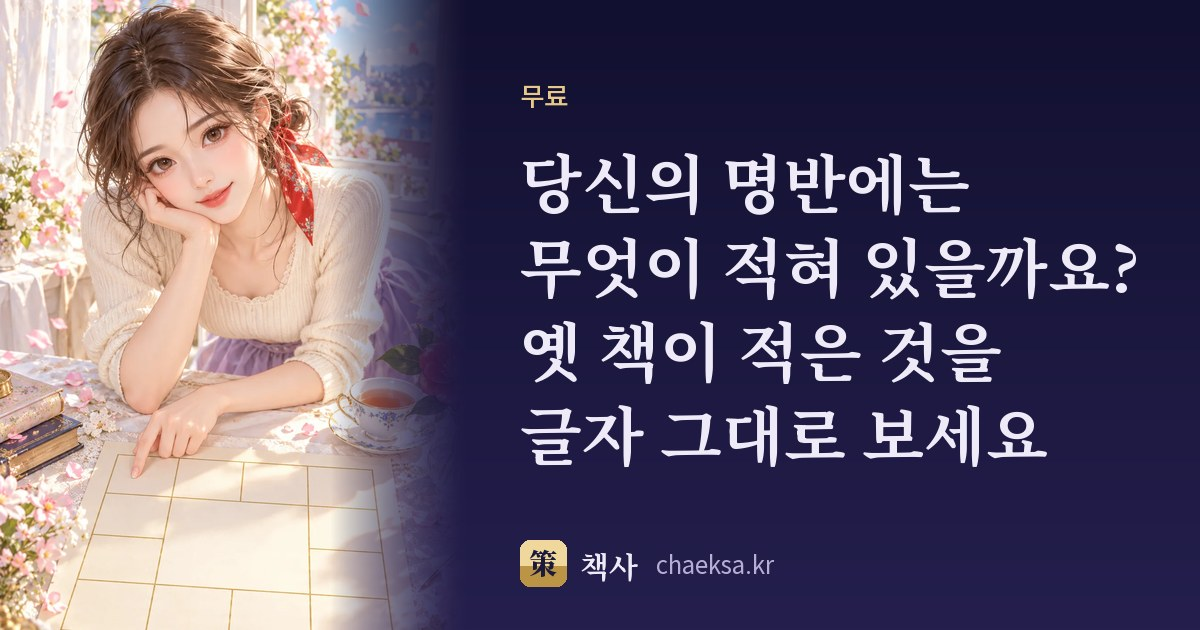
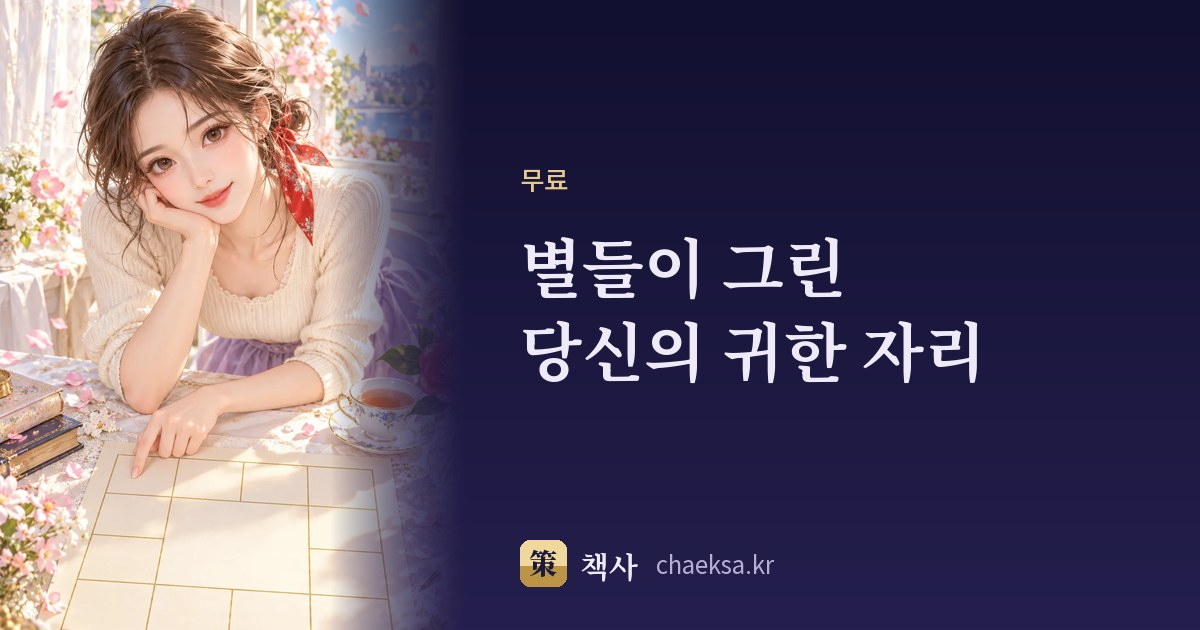
Add personalized Zi Wei favorable filter story
정한 것: 해당하는 전서 조건을 세로로 쌓고 누적 비율과 원문 근거를 보인다. 기존 명반과 전체 구절은 아래에서 펼친다.

diff --git a/app/myeongban-filter.js b/app/myeongban-filter.js
@@ -1,0 +1,39 @@
+/* Favorable 全書 clauses and their real cumulative cohort intersections. Renderer only. */
+(function () {
+  'use strict';
+  var esc = function (s) { return String(s == null ? '' : s).replace(/[&<>"']/g, function (x) { return { '&': '&amp;', '<': '&lt;', '>': '&gt;', '"': '&quot;', "'": '&#39;' }[x]; }); };
+  function rate(n) { if (n == null) return '비율 미산정'; if (n < 0.01) return '0.01% 미만'; return n.toFixed(2).replace(/\.00$/, '') + '%'; }
+  function source(s) {
+    var volume = /卷([一二三])/.exec(s.source || '');
+    var url = 'https://zh.wikisource.org/zh-hant/' + encodeURIComponent('紫微斗數全書') + '/' + encodeURIComponent('卷' + (volume ? volume[1] : '二'));
+    return '<div class="zf-source"><p class="zf-quote" lang="zh-Hant">' + esc(s.quote) + '</p><p>' + esc(s.meaning) + '</p><p class="zf-evidence"><b>내 명반에서 확인한 조건</b><br>' + esc(s.evidence) + '</p><a href="' + url + '" target="_blank" rel="noopener noreferrer">자미두수전서 · ' + esc(s.source) + ' ↗</a></div>';
+  }
+  function html(story) {
+    if (!story || !Array.isArray(story.filters)) return '';
+    var filters = story.filters, stars = (story.mainStars || []).join(' · ');
+    var h = '<article class="zf" aria-label="자미두수 · 당신에게 모인 좋은 조건">';
+    h += '<div class="zf-hero"><p class="zf-kicker">자미두수전서에서 읽은 당신</p><h2>당신에게 모인<br><em>좋은 별의 조건.</em></h2>';
+    if (stars) h += '<p class="zf-stars">나를 보는 자리, 명궁의 별 <strong>' + esc(stars) + '</strong></p>';
+    else h += '<p class="zf-stars">명궁에는 주성이 없습니다. 다른 자리의 별을 함께 읽습니다.</p>';
+    h += '<p class="zf-intro">옛 책이 좋게 본 조건을<br>당신의 명반에서 하나씩 찾았습니다.</p>';
+    if (filters.length) h += '<div class="zf-total"><span>아래 조건이 모두 모인 명반</span><strong>' + rate(story.percent) + '</strong><small>비교 명반 기준</small></div>';
+    h += '</div>';
+    if (filters.length) {
+      h += '<section class="zf-filters" aria-labelledby="zf-filter-heading"><div class="zf-section-head"><p class="zf-kicker">하나씩 겹쳐 볼수록</p><h3 id="zf-filter-heading">이 조건들이<br>당신에게 함께 있습니다.</h3><p>숫자는 이 줄까지의 조건에 모두 해당하는 비율입니다.</p></div><ol class="zf-stack">';
+      filters.forEach(function (f, i) {
+        var width = f.percent == null ? 0 : Math.min(100, Math.max(0, f.percent));
+        h += '<li class="zf-step"><div class="zf-step-top"><span class="zf-number">' + String(i + 1).padStart(2, '0') + '</span><span class="zf-domain">' + esc(f.domain) + '</span><span class="zf-check" aria-label="해당">✓</span></div>';
+        h += '<h4>' + esc(f.title) + '</h4>' + (f.name ? '<p class="zf-name">' + esc(f.name) + '</p>' : '');
+        h += '<div class="zf-rate"><span>' + (i ? '여기까지 함께 해당' : '이 조건에 해당') + '</span><strong>' + rate(f.percent) + '</strong></div><div class="zf-track" aria-hidden="true"><i style="width:' + width.toFixed(5) + '%"></i></div>';
+        h += '<details><summary>왜 나에게 해당할까요?</summary>' + (f.sources || []).map(source).join('') + '</details></li>';
+      });
+      h += '</ol></section>';
+    }
+    h += '<section class="zf-conclusion"><p class="zf-kicker">당신에게 모인 자리들</p><h3>' + esc(story.conclusion) + '</h3><p>' + esc(story.summary) + '</p>';
+    if (filters.length) h += '<p class="zf-closing">당신의 명반을 이루는<br>좋은 조건들을 기억해 두세요.</p>';
+    h += '</section><details class="zf-method"><summary>비율은 어떻게 계산했나요?</summary><p>자미두수 명반을 같은 기준으로 계산한 비교 자료에서, 각 조건에 모두 해당하는 명반을 셌습니다. 앞선 조건을 통과한 명반 안에서 다음 조건을 다시 확인합니다. 각각의 비율을 곱하지 않습니다.</p><p>' + esc(story.scheme) + ' · 총 ' + Number(story.sampleSize).toLocaleString('ko-KR') + '개.</p><p>실제 인구 비율이나 능력 점수가 아닙니다. 조건이 겹치면 비율이 같을 수 있으며, 비교 자료에서 찾지 못한 조합은 비율 미산정으로 표시합니다.</p><p>이 조건을 모두 갖추어야만 귀한 사람이라는 뜻은 아닙니다.</p></details>';
+    h += '<p class="zf-scope">' + esc(story.scope) + '</p><div class="zf-chart-heading"><p class="zf-kicker">더 가까이 들여다보기</p><h3>당신의 열두 자리</h3><p>명반을 펼친 뒤 궁이나 별을 누르면 그 자리에 적힌 이야기가 열립니다.</p></div></article>';
+    return h;
+  }
+  window.ChaeksaZiweiFilter = { html: html };
+})();

diff --git a/app/myeongban-filter.css b/app/myeongban-filter.css
@@ -1,0 +1,14 @@
+.zf{--zf-paper:#faf7ef;--zf-ink:#252c2c;--zf-gold:#926321;--zf-line:#d9cbb3;background:var(--zf-paper);color:var(--zf-ink);margin:28px 0 0;font-family:var(--sans);container-type:inline-size}
+.zf *{box-sizing:border-box}.zf p{line-height:1.85}.zf-kicker{color:var(--zf-gold);font-size:11px;letter-spacing:.12em;margin:0 0 20px}.zf-hero{padding:34px 28px 38px;border-top:1px solid var(--zf-line)}
+.zf h2,.zf h3,.zf h4{font-family:var(--serif);font-weight:400;word-break:keep-all;overflow-wrap:anywhere;color:var(--zf-ink)}.zf h2{font-size:clamp(30px,7.6cqw,45px);line-height:1.55;margin:0 0 26px;letter-spacing:-.055em}.zf h2 em{font-style:normal;color:var(--zf-gold)}
+.zf-stars{font-size:12px;color:#797266;margin:0 0 24px}.zf-stars strong{display:block;color:var(--zf-ink);font-family:var(--serif);font-size:20px;font-weight:400;margin-top:3px}.zf-intro{font-family:var(--serif);font-size:16px;color:#665c4d;margin:0}
+.zf-total{margin:32px 0 0;padding-top:26px;border-top:1px solid var(--zf-line);display:flex;flex-direction:column;align-items:flex-start}.zf-total span{font-size:12px;color:#756954}.zf-total strong{font-family:var(--serif);font-size:52px;color:var(--zf-gold);line-height:1.4;font-weight:400;letter-spacing:-.06em}.zf-total small{font-size:10px;color:#827764}
+.zf-section-head{padding:25px 28px}.zf-section-head .zf-kicker{margin-bottom:12px}.zf h3{font-size:27px;line-height:1.6;letter-spacing:-.04em;margin:0 0 15px}.zf-section-head>p:last-child{font-size:11px;color:#827764;margin:0}
+.zf-stack{list-style:none;padding:0 16px 0 37px;margin:0;counter-reset:none;position:relative}.zf-stack:before{content:'';position:absolute;left:21px;top:23px;bottom:22px;width:1px;background:var(--zf-line)}
+.zf-step{position:relative;list-style:none;border:1px solid var(--zf-line);padding:24px;background:linear-gradient(125deg,#f0ebdf 0%,#fbf8f1 78%);margin:0 0 18px}.zf-step:before{content:'';position:absolute;left:-21px;top:29px;width:9px;height:9px;background:var(--zf-gold);border:2px solid var(--zf-paper);border-radius:50%}.zf-step-top{display:flex;align-items:center;gap:10px}.zf-number{font:14px var(--serif);color:var(--zf-gold)}.zf-domain{font-size:10px;letter-spacing:.06em;color:#84765e}.zf-check{margin-left:auto;font-size:15px;color:var(--zf-gold)}
+.zf h4{font-size:24px;line-height:1.7;letter-spacing:-.045em;margin:20px 0 14px}.zf-name{color:var(--zf-gold);font-family:var(--serif);font-size:13px;margin:-3px 0 20px}.zf-rate{display:flex;align-items:baseline;justify-content:space-between;gap:8px;margin-top:22px}.zf-rate span{font-size:10px;color:#88795e}.zf-rate strong{font:26px var(--serif);color:var(--zf-gold);white-space:nowrap}.zf-track{height:4px;background:#e6dfd2;margin:10px 0 22px}.zf-track i{display:block;height:100%;background:var(--zf-gold)}
+.zf details{font-size:12px;line-height:1.85}.zf details summary{cursor:pointer;padding:12px 0;color:#88744d;font-size:11px}.zf-step details{border-top:1px solid var(--zf-line)}.zf-source{padding:14px 0;border-bottom:1px solid var(--zf-line);word-break:keep-all;overflow-wrap:anywhere}.zf-source:last-child{border:0}.zf-source p{font-size:12px;margin:8px 0;color:#655d50}.zf-source .zf-quote{font-family:var(--serif);font-size:15px;color:var(--zf-ink)}.zf-source a{color:var(--zf-gold);font-size:10px}.zf-source .zf-evidence{background:#eee7db;padding:12px;font-size:11px}.zf-evidence b{font-weight:500;color:var(--zf-gold)}
+.zf-conclusion{margin:48px 28px 30px;padding:32px 0;border-top:1px solid var(--zf-line);border-bottom:1px solid var(--zf-line)}.zf-conclusion h3{font-size:32px}.zf-conclusion p:not(.zf-kicker){font-family:var(--serif);font-size:15px;color:#6d604c}.zf-conclusion .zf-closing{margin-top:24px}.zf-method{margin:0 28px;color:#807563}.zf-method p{font-size:11px}.zf-scope{font-size:10px;color:#968975;margin:24px 28px 0}.zf-chart-heading{padding:60px 28px 10px}.zf-chart-heading h3{margin:0}.zf-chart-heading>p:last-child{font-size:12px;color:#81735b}.zf-chart-heading .zf-kicker{margin-bottom:10px}
+@container(max-width:360px){.zf-hero,.zf-section-head{padding-left:18px;padding-right:18px}.zf-step{padding:18px}.zf-stack{padding-right:8px;padding-left:29px}.zf-stack:before{left:15px}.zf-step:before{left:-19px}.zf h4{font-size:22px}.zf-conclusion{margin-left:18px;margin-right:18px}.zf-conclusion h3{font-size:27px}.zf-total strong{font-size:46px}}
+@media(prefers-reduced-motion:reduce){.zf *{scroll-behavior:auto}}
+.mb-original{margin:0 28px 32px;border-top:1px solid #d9cbb3}.mb-original>summary{padding:18px 0;color:#926321;cursor:pointer;font-size:13px}.mb-original[open]{margin-left:0;margin-right:0}.mb-original .mb-top{margin-top:18px}

diff --git a/app/myeongban.html b/app/myeongban.html
@@ -3,12 +3,12 @@
 <head>
 <meta charset="utf-8">
 <meta name="viewport" content="width=device-width, initial-scale=1, viewport-fit=cover">
-<title>당신의 명반에는 무엇이 적혀 있을까요? 옛 책이 적은 것을 글자 그대로 보세요 · 책사</title>
-<meta name="description" content="태어난 해 · 달 · 날 · 시로 삶의 열두 분야를 담은 표(자미두수 명반)를 그려요. 칸이나 별을 눌러 옛 책의 원문과 쉬운 풀이를 보세요(《자미두수전서》). 그 칸의 일이 드러나는 해도 적어요. 옛 책이 좋다고 적은 것은 좋다고, 나쁘다고 적은 것은 나쁘다고 그대로 옮겨요.">
+<title>자미두수 · 별들이 그린 당신의 귀한 자리 · 책사</title>
+<meta name="description" content="자미두수전서가 좋게 본 조건을 내 명반에서 찾습니다. 좋은 조건을 하나씩 겹친 누적 비율과 원문 근거, 열두 궁의 이야기를 무료로 읽어 보세요.">
 <meta name="robots" content="index,follow,max-snippet:-1">
 <link rel="canonical" href="https://chaeksa.kr/myeongban.html">
-<meta property="og:title" content="당신의 명반에는 무엇이 적혀 있을까요? 옛 책이 적은 것을 글자 그대로 보세요">
-<meta property="og:description" content="태어난 해 · 달 · 날 · 시로 삶의 열두 분야를 담은 표(자미두수 명반)를 그려요. 칸이나 별을 눌러 옛 책의 원문과 쉬운 풀이를 보세요(《자미두수전서》). 그 칸의 일이 드러나는 해도 적어요. 옛 책이 좋다고 적은 것은 좋다고, 나쁘다고 적은 것은 나쁘다고 그대로 옮겨요. 무료.">
+<meta property="og:title" content="자미두수 · 별들이 그린 당신의 귀한 자리">
+<meta property="og:description" content="나에게 해당하는 좋은 조건을 하나씩 쌓아 읽는 자미두수. 원문과 내 명반의 근거까지 함께 봅니다. 무료.">
 <meta property="og:type" content="website">
 <meta property="og:site_name" content="책사">
 <meta property="og:url" content="https://chaeksa.kr/myeongban.html">
@@ -25,6 +25,7 @@
 <link rel="preconnect" href="https://fonts.gstatic.com" crossorigin>
 <link href="https://fonts.googleapis.com/css2?family=Noto+Serif+KR:wght@400;700;900&family=Noto+Sans+KR:wght@400;500;700&family=Gowun+Batang:wght@400;700&display=swap" rel="stylesheet">
 <link rel="stylesheet" href="style.css?v=49a9ab4e50">
+<link rel="stylesheet" href="myeongban-filter.css?v=90515b436d">
 <style>
 /* brain.html 과 같은 꼴 — 사이트 공통(style.css 변수 · 머리 줄 · 「← 홈」). 이 쪽만의 색을 새로 박지 않는다(hex 0) — 종이는 카드 변수, 먹은 글자 변수, 주홍은 강조 변수 */
 .wrap{max-width:560px;margin:0 auto;padding:var(--s3) 18px 80px}
@@ -141,8 +142,8 @@ body.sh-open{overflow:hidden}
 <div class="mini-head" role="banner"><a class="logo" href="./" title="처음 화면으로"><i class="seal">策</i><span>책사</span></a></div>
 <main class="wrap">
   <a class="btn ghost small backhome" href="./" style="display:inline-block;margin-top:0;text-decoration:none">← 홈</a>
-  <p class="eyebrow" id="eyebrow">옛 책이 당신의 자리에 적은 말</p>
-  <h1 id="h1">당신의 명반에는 무엇이 적혀 있을까요? 옛 책이 적은 것을 글자 그대로 보세요</h1>
+  <p class="eyebrow" id="eyebrow">자미두수 · 자미두수전서</p>
+  <h1 id="h1">별들이 그린 당신의 귀한 자리</h1>
   <p class="sub" id="sub"></p>
 
   <div id="who"></div>
@@ -176,6 +177,7 @@ body.sh-open{overflow:hidden}
 <script src="places.js?v=1350b96148"></script>
 <script src="share.js?v=d14e2a4e8e"></script>
 <script src="myeongban-copy.js?v=558e26b3da"></script>
-<script src="myeongban.js?v=798c77babc"></script>
+<script src="myeongban-filter.js?v=321bc39a25"></script>
+<script src="myeongban.js?v=a2fe2b6278"></script>
 </body>
 </html>

diff --git a/app/myeongban.js b/app/myeongban.js
@@ -53,11 +53,11 @@
   var 궁of = function (이름) { return 결과 ? 결과.명반.궁.filter(function (g) { return g.이름 === 이름; })[0] : null; };
 
   try { $('p').innerHTML = window.ChaeksaPlaces ? ChaeksaPlaces.options() : '<option value="KR:서울">서울</option>'; $('p').value = 'KR:서울'; } catch (e) {}
-  if (쪽.제목) $('h1').textContent = 쪽.제목;
-  if (쪽.눈썹) $('eyebrow').textContent = 쪽.눈썹;
-  $('sub').textContent = 글('첫줄', '');
+  $('h1').textContent = '별들이 그린 당신의 귀한 자리';
+  $('eyebrow').textContent = '자미두수 · 자미두수전서';
+  $('sub').textContent = '옛 책이 좋게 본 조건을 하나씩 겹쳐, 당신의 명반을 읽습니다.';
   $('hint').textContent = 글('입력.시필요', '');
-  $('go').textContent = 글('입력.단추', '명반 그리기');
+  $('go').textContent = '내 명반 읽기';
 
   // 엔진 경계 말 → 작가 경계종류 열쇠(엔진 말은 1층에 내지 않는다 — 작가 원고 경계메모). 모르는 말은 머리 줄만.
   function 경계종류(말) {
@@ -127,7 +127,8 @@
   }
   function 그리기() {
     var R = 결과; if (!R) return;
-    var M = R.명반, h = '';
+    var M = R.명반, h = window.ChaeksaZiweiFilter ? ChaeksaZiweiFilter.html(R.filterStory) : '';
+    if (R.filterStory) h += '<details class="mb-original"><summary>내 명반과 전체 구절 보기</summary>';
     h += '<div class="mb-top"><div class="sec">' + esc(글('명반.머리', '당신의 명반')) + '</div><p class="why">' + esc(M.해범위[0] + '~' + M.해범위[1]) + '</p></div>';
     var 종류 = []; (M.경계 || []).forEach(function (말) { var k = 경계종류(말); if (k && 종류.indexOf(k) < 0) 종류.push(k); });
     if ((M.경계 || []).length) h += '<div class="mb-edge"><p>' + esc(글('명반.경계', '')) + '</p>' + 종류.map(function (k) { return '<p>' + esc(글('명반.경계종류.' + k, '')) + '</p>'; }).join('') + '</div>';
@@ -138,7 +139,8 @@
       + '<div class="c3 tap' + (탭본() ? ' still' : '') + '">👆 ' + esc(글('명반.누르기', '')) + '</div></div>'
       + '</div>';
     h += 흐름html(M);   // 10-24 열두 칸 글 흐름(결론 → 근거 접힘)
-    h += '<div class="end"><p class="line">' + esc(글('끝.줄', '')) + '</p><p class="why">' + esc(글('끝.풀이', '')) + '</p></div>';
+    if (R.filterStory) h += '</details>';
+    if (!R.filterStory) h += '<div class="end"><p class="line">' + esc(글('끝.줄', '')) + '</p><p class="why">' + esc(글('끝.풀이', '')) + '</p></div>';
     h += '<div class="share-row"><button type="button" class="btn ghost small" data-share="1">' + esc(글('공유.단추', '이 화면 친구에게 보내기')) + '</button><p class="why" id="shareMsg">' + esc(글('공유.안내', '')) + '</p></div>';
     $('out').innerHTML = h;
   }
@@ -524,7 +526,7 @@
       결과 = j; 표 = j.표 || ''; 지금 = { 이름: 이름 || '', body: body }; $('err').textContent = '';
       그리기();
       // 손님이 눌러서 그린 것이면 명반으로 내려간다(처음 열릴 때 넣어 둔 사람으로 저절로 그린 것은 그대로 — 첫 줄부터 읽게)
-      if (스크롤) try { var 머리 = document.querySelector('.mb-top'); if (머리) 머리.scrollIntoView({ behavior: 'smooth', block: 'start' }); } catch (e4) {}
+      if (스크롤) try { var 머리 = document.querySelector('.zf') || document.querySelector('.mb-top'); if (머리) 머리.scrollIntoView({ behavior: 'smooth', block: 'start' }); } catch (e4) {}
       if (!셌다) { 셌다 = true; try { if (window.ChaeksaTrack && ChaeksaTrack.event) ChaeksaTrack.event('myeongban'); } catch (e2) {} }
     } catch (err) { $('err').textContent = '연결하지 못했어요. 다시 눌러 주세요.'; }
   }

diff --git a/app/tests_yaksok.html b/app/tests_yaksok.html
@@ -7,7 +7,7 @@
 <script src="yaksok.js?v=ac6b394f76"></script>
 <script src="love.js?v=737607f76b"></script>
 <script src="pair.js?v=14dab953c5"></script>
-<script src="home-cats.js?v=d8448b4f11"></script>
+<script src="home-cats.js?v=85aa4b77f8"></script>
 <script src="people.js?v=608bb7b89c"></script>
 <script>
 // 상품 약속 장부 시험(10-02 개편 2묶음 「상품 약속 장부 한 줄씩 만들고, 모든 화면이 거기서 읽게 하기」).
@@ -42,14 +42,14 @@
   const 아는조건 = ['장한줄'];
   // 손으로 쓴 곳 — 장부를 읽지 못하는 법 문서 · 정적 글과, 장부를 읽게 바꾼 화면 파일(남은 손글씨가 없는지)
   const 손글파일 = ['pay.html', 'terms.html', 'privacy.html', 'index.html', 'manifest.json', 'llms.txt', 'taekil.html', 'taekil-apply.html', 'taekil-sample.html', 'pay-done.html', 'pay-fail.html', 'love.html', 'pair.html', 'ssom.html', 'gunghap-chongnon.html', 'jeongtong.html',
-    'love.js?v=737607f76b', 'pair.js?v=14dab953c5', 'home-cats.js?v=d8448b4f11', 'app.js?v=79253bb630', 'pay.js?v=b830dbd7bb', 'gunghap-gwanjeom.js?v=8760d7107c', 'bunya.js?v=f082457166', 'about.html',
+    'love.js?v=737607f76b', 'pair.js?v=14dab953c5', 'home-cats.js?v=85aa4b77f8', 'app.js?v=79253bb630', 'pay.js?v=b830dbd7bb', 'gunghap-gwanjeom.js?v=8760d7107c', 'bunya.js?v=f082457166', 'about.html',
     // 10-02 「켜는 날」 — 바깥 신청 폼 · 「사람이 직접」 · 「작업 전 전액 환불」 같은 걷은 약속이 출산택일 쪽에 다시 들어오지 않게(tools_check.py 7) 은 월별 · 궁통보감 쪽까지 taekil-*.html 전부를 본다)
     'taekil-price.html', 'taekil-sim.html', 'taekil-report.html', 'taekil-admin.html', 'taekil-why-different.html', 'taekil-cesarean-date.html', 'taekil-how-to-choose.html',
     'taekil-verify.html', 'taekil-fate-vs-timing.html', 'taekil-doctor-schedule.html', 'taekil-solar-time.html', 'taekil-lunar-december.html',
     'taekilsim.js?v=fbda3c54dc', 'taekil-admin.js?v=edcde7cc1e', 'taekil-report.js?v=97ae8d83e9'];
   // about.html(10-02 개편 3묶음 책사 소개) — 상품 말은 장부에서 읽는다. 손으로 쓴 숫자가 끼면 여기서 잡는다(tools_check.py 7)과 같은 목록)
-  const 시간파일 = ['pay.html', 'terms.html', 'love.js?v=737607f76b', 'pair.js?v=14dab953c5', 'index.html', 'pay-done.html', 'pay-fail.html', 'home-cats.js?v=d8448b4f11', 'about.html'];
-  const 질문파일 = ['pay.html', 'terms.html', 'privacy.html', 'love.js?v=737607f76b', 'pair.js?v=14dab953c5', 'index.html', 'llms.txt', 'gunghap-gwanjeom.js?v=8760d7107c', 'home-cats.js?v=d8448b4f11', 'about.html'];
+  const 시간파일 = ['pay.html', 'terms.html', 'love.js?v=737607f76b', 'pair.js?v=14dab953c5', 'index.html', 'pay-done.html', 'pay-fail.html', 'home-cats.js?v=85aa4b77f8', 'about.html'];
+  const 질문파일 = ['pay.html', 'terms.html', 'privacy.html', 'love.js?v=737607f76b', 'pair.js?v=14dab953c5', 'index.html', 'llms.txt', 'gunghap-gwanjeom.js?v=8760d7107c', 'home-cats.js?v=85aa4b77f8', 'about.html'];
   const 해파일 = ['pay.html', 'terms.html', 'privacy.html', 'love.js?v=737607f76b', 'pair.js?v=14dab953c5', 'about.html'];
   // 10-02 개편 3묶음 — 상품 소개 쪽 다섯(tools_sogae.py 가 장부 · 분야 표에서 만든다. tools_check.py SOGAE_PAGES 와 같은 목록). 시간 · 질문 수 · 보관 해도 장부와 같아야 한다.
   const 소개쪽 = { love: 'love.html', pair: 'pair.html', chongnon: 'gunghap-chongnon.html', ssom: 'ssom.html', jeongtong: 'jeongtong.html' };

diff --git a/app/love.html b/app/love.html
@@ -26,7 +26,7 @@ document.documentElement.setAttribute('data-theme','day');
 <link rel="preconnect" href="https://fonts.googleapis.com">
 <link rel="preconnect" href="https://fonts.gstatic.com" crossorigin>
 <link href="https://fonts.googleapis.com/css2?family=Noto+Serif+KR:wght@400;700;900&family=Noto+Sans+KR:wght@400;500;700&family=Gowun+Batang:wght@400;700&display=swap" rel="stylesheet">
-<link rel="stylesheet" href="style.css?v=1471">
+<link rel="stylesheet" href="style.css?v=1472">
 <style>
   .doc{max-width:660px;margin:0 auto;padding:24px 18px 90px}
   .doc h1{font-family:var(--serif);font-size:var(--t6);line-height:1.35;margin:6px 0 8px;color:var(--ink)}
@@ -117,10 +117,10 @@ document.documentElement.setAttribute('data-theme','day');
   유코아 팔달 · 대표 이승용 · 사업자등록번호 745-68-00160 · 통신판매업 제2026-대구북구-0909호<br>
   대구 북구 매천로 2길19 상가 126동 1층 111호 · 010-9999-1263 · dl4431@naver.com</p>
 </main>
-<script src="config.js?v=1471"></script>
-<script src="track.js?v=1471"></script>
-<script src="yaksok.js?v=1471"></script>
-<script src="pay.js?v=1471"></script>
+<script src="config.js?v=1472"></script>
+<script src="track.js?v=1472"></script>
+<script src="yaksok.js?v=1472"></script>
+<script src="pay.js?v=1472"></script>
 <script>
 (function(){
   var f='';try{f=new URLSearchParams(location.search).get('from')||'';}catch(e){}

diff --git a/app/pair.html b/app/pair.html
@@ -26,7 +26,7 @@ document.documentElement.setAttribute('data-theme','day');
 <link rel="preconnect" href="https://fonts.googleapis.com">
 <link rel="preconnect" href="https://fonts.gstatic.com" crossorigin>
 <link href="https://fonts.googleapis.com/css2?family=Noto+Serif+KR:wght@400;700;900&family=Noto+Sans+KR:wght@400;500;700&family=Gowun+Batang:wght@400;700&display=swap" rel="stylesheet">
-<link rel="stylesheet" href="style.css?v=1471">
+<link rel="stylesheet" href="style.css?v=1472">
 <style>
   .doc{max-width:660px;margin:0 auto;padding:24px 18px 90px}
   .doc h1{font-family:var(--serif);font-size:var(--t6);line-height:1.35;margin:6px 0 8px;color:var(--ink)}
@@ -99,10 +99,10 @@ document.documentElement.setAttribute('data-theme','day');
   유코아 팔달 · 대표 이승용 · 사업자등록번호 745-68-00160 · 통신판매업 제2026-대구북구-0909호<br>
   대구 북구 매천로 2길19 상가 126동 1층 111호 · 010-9999-1263 · dl4431@naver.com</p>
 </main>
-<script src="config.js?v=1471"></script>
-<script src="track.js?v=1471"></script>
-<script src="yaksok.js?v=1471"></script>
-<script src="pay.js?v=1471"></script>
+<script src="config.js?v=1472"></script>
+<script src="track.js?v=1472"></script>
+<script src="yaksok.js?v=1472"></script>
+<script src="pay.js?v=1472"></script>
 <script>
 (function(){
   var f='';try{f=new URLSearchParams(location.search).get('from')||'';}catch(e){}

diff --git a/app/gunghap-chongnon.html b/app/gunghap-chongnon.html
@@ -26,7 +26,7 @@ document.documentElement.setAttribute('data-theme','day');
 <link rel="preconnect" href="https://fonts.googleapis.com">
 <link rel="preconnect" href="https://fonts.gstatic.com" crossorigin>
 <link href="https://fonts.googleapis.com/css2?family=Noto+Serif+KR:wght@400;700;900&family=Noto+Sans+KR:wght@400;500;700&family=Gowun+Batang:wght@400;700&display=swap" rel="stylesheet">
-<link rel="stylesheet" href="style.css?v=1471">
+<link rel="stylesheet" href="style.css?v=1472">
 <style>
   .doc{max-width:660px;margin:0 auto;padding:24px 18px 90px}
   .doc h1{font-family:var(--serif);font-size:var(--t6);line-height:1.35;margin:6px 0 8px;color:var(--ink)}
@@ -102,8 +102,8 @@ document.documentElement.setAttribute('data-theme','day');
   유코아 팔달 · 대표 이승용 · 사업자등록번호 745-68-00160 · 통신판매업 제2026-대구북구-0909호<br>
   대구 북구 매천로 2길19 상가 126동 1층 111호 · 010-9999-1263 · dl4431@naver.com</p>
 </main>
-<script src="config.js?v=1471"></script>
-<script src="track.js?v=1471"></script>
+<script src="config.js?v=1472"></script>
+<script src="track.js?v=1472"></script>
 <script>
 (function(){
   var f='';try{f=new URLSearchParams(location.search).get('from')||'';}catch(e){}

diff --git a/app/jeongtong.html b/app/jeongtong.html
@@ -26,7 +26,7 @@ document.documentElement.setAttribute('data-theme','day');
 <link rel="preconnect" href="https://fonts.googleapis.com">
 <link rel="preconnect" href="https://fonts.gstatic.com" crossorigin>
 <link href="https://fonts.googleapis.com/css2?family=Noto+Serif+KR:wght@400;700;900&family=Noto+Sans+KR:wght@400;500;700&family=Gowun+Batang:wght@400;700&display=swap" rel="stylesheet">
-<link rel="stylesheet" href="style.css?v=1471">
+<link rel="stylesheet" href="style.css?v=1472">
 <style>
   .doc{max-width:660px;margin:0 auto;padding:24px 18px 90px}
   .doc h1{font-family:var(--serif);font-size:var(--t6);line-height:1.35;margin:6px 0 8px;color:var(--ink)}
@@ -101,8 +101,8 @@ document.documentElement.setAttribute('data-theme','day');
   유코아 팔달 · 대표 이승용 · 사업자등록번호 745-68-00160 · 통신판매업 제2026-대구북구-0909호<br>
   대구 북구 매천로 2길19 상가 126동 1층 111호 · 010-9999-1263 · dl4431@naver.com</p>
 </main>
-<script src="config.js?v=1471"></script>
-<script src="track.js?v=1471"></script>
+<script src="config.js?v=1472"></script>
+<script src="track.js?v=1472"></script>
 <script>
 (function(){
   var f='';try{f=new URLSearchParams(location.search).get('from')||'';}catch(e){}

diff --git a/app/ssom.html b/app/ssom.html
@@ -26,7 +26,7 @@ document.documentElement.setAttribute('data-theme','day');
 <link rel="preconnect" href="https://fonts.googleapis.com">
 <link rel="preconnect" href="https://fonts.gstatic.com" crossorigin>
 <link href="https://fonts.googleapis.com/css2?family=Noto+Serif+KR:wght@400;700;900&family=Noto+Sans+KR:wght@400;500;700&family=Gowun+Batang:wght@400;700&display=swap" rel="stylesheet">
-<link rel="stylesheet" href="style.css?v=1471">
+<link rel="stylesheet" href="style.css?v=1472">
 <style>
   .doc{max-width:660px;margin:0 auto;padding:24px 18px 90px}
   .doc h1{font-family:var(--serif);font-size:var(--t6);line-height:1.35;margin:6px 0 8px;color:var(--ink)}
@@ -97,8 +97,8 @@ document.documentElement.setAttribute('data-theme','day');
   유코아 팔달 · 대표 이승용 · 사업자등록번호 745-68-00160 · 통신판매업 제2026-대구북구-0909호<br>
   대구 북구 매천로 2길19 상가 126동 1층 111호 · 010-9999-1263 · dl4431@naver.com</p>
 </main>
-<script src="config.js?v=1471"></script>
-<script src="track.js?v=1471"></script>
+<script src="config.js?v=1472"></script>
+<script src="track.js?v=1472"></script>
 <script>
 (function(){
   var f='';try{f=new URLSearchParams(location.search).get('from')||'';}catch(e){}

diff --git a/app/sw.js b/app/sw.js
@@ -9,7 +9,7 @@
  *  그 밖(지문 없는 파일 · 숫자 ?v=) — 네트워크 먼저, 끊겼을 때만 캐시.
  *  캐시에는 제대로 받은 것(r.ok)만 넣는다 — 404 · 오류 쪽이 캐시에 남아 다음에 그것을 보이는 일이 없게.
  */
-const CACHE = 'chaeksa-v1471';          // tools_bust.py --bump 가 올린다 — 이 파일이 바뀌어야 브라우저가 새 일꾼을 받는다
+const CACHE = 'chaeksa-v1472';          // tools_bust.py --bump 가 올린다 — 이 파일이 바뀌어야 브라우저가 새 일꾼을 받는다
 const FILES_CACHE = 'chaeksa-files';    // ① 지문 붙은 파일 — 배포마다 지우지 않는다
 const IMG_CACHE = 'chaeksa-img';        // ② 그림
 const IMG_MAX = 400;

diff --git a/app/home-cats.js b/app/home-cats.js
@@ -71,7 +71,7 @@
     return null;
   }
 
-  var 그림판 = 'v1471';   // tools_bust.py --bump 가 서비스워커 판과 같이 올린다
+  var 그림판 = 'v1472';   // tools_bust.py --bump 가 서비스워커 판과 같이 올린다
   function 그림칸(b, c, i, 차례, g, Y) {
     // 그림은 그림만(10-23 사장님) — 그림 아래에 이름(.n) · 한줄(.s) · 딱지(.t: 무엇이 무료 · 얼마 — 값은 상품표에서 채운다). 분류 딱지는 안 그린다.
     var 이름 = c.표시명 || (Y && Y.이름(c.키)) || b.이름, 한줄 = c.설명 || (Y && Y.홈한줄 ? Y.홈한줄(c.키) : ''), 딱지 = Y ? Y.딱지html(c.키) : '';
